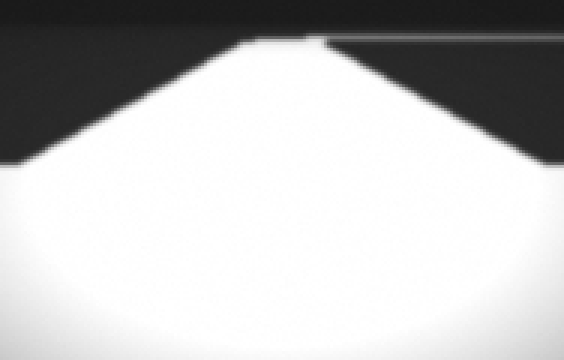
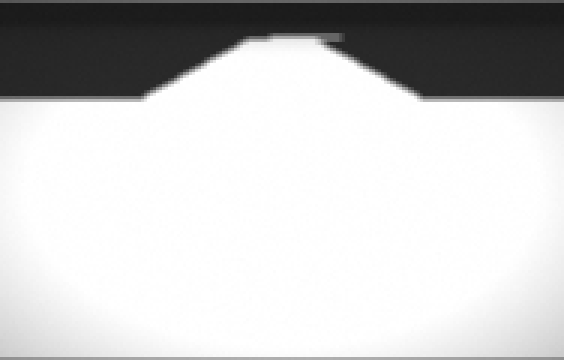
仿真提速：相机射线预计算+盒式模糊(3.4->1.5ms)、headless 7.5x、界面加速 x1/x2/x4/x8 + 平滑开关 + --speed；新增 tools/sim_opt.py（20 组传动比各自寻优）

diff --git a/sim/camera.py b/sim/camera.py
@@ -7,12 +7,14 @@
 
 成像链（尽量贴近实拍）：
   反射率 albedo(白 0.85 / 黑 0.06) → 光照衰减 → 自动曝光(AEC，把亮的顶到 255) →
-  镜头暗角 → 模糊(1px) → 噪声 → uint8
+  镜头暗角 → 模糊 → 噪声 → uint8
 选自动曝光是因为实车那颗 MT9V034 的 AEC 只能开、不能关（我们踩过坑），
 所以画面亮度总是"白的地方刚好饱和"，固件里默认阈值 255 就是靠这个工作。
+
+★ 加速（FW 仿真专用）：射线方向在**相机坐标系**里只算一次，每帧只做一次 3×3 旋转；
+  模糊改成 numpy 的 3 抽头盒式滤波；`fast=True` 时不清噪（优化/批量跑用）。
 """
 import numpy as np
-from PIL import Image, ImageFilter
 
 from track import Track
 
@@ -25,101 +27,113 @@ CAM_HFOV  = np.deg2rad(60.0)   # 水平视场
 
 
 def _basis(yaw):
-    """相机朝向：世界 z 向上，yaw=0 朝 +x。
-       返回 前/右/上 三个基向量（前方向带低头角）"""
-    fwd = np.array([np.cos(yaw) * np.cos(CAM_PITCH),
-                    np.sin(yaw) * np.cos(CAM_PITCH),
-                    -np.sin(CAM_PITCH)])
-    right = np.array([-np.sin(yaw), np.cos(yaw), 0.0])
-    up = np.cross(fwd, right)          # 顺序很重要：right×fwd 得到的是朝下
+    """相机朝向：世界 z 向上，yaw=0 朝 +x。返回 前/右/上 三个基向量（前方向带低头角）"""
+    cp, sp = np.cos(CAM_PITCH), np.sin(CAM_PITCH)
+    cy, sy = np.cos(yaw), np.sin(yaw)
+    fwd = np.array([cy * cp, sy * cp, -sp])
+    right = np.array([-sy, cy, 0.0])
+    up = np.cross(fwd, right)
     return fwd, right, up
 
 
-def _rays(yaw):
-    """每个像素的方向向量 (H, W, 3)，已归一化"""
+def _rays_cam(w=W, h=H):
+    """相机坐标系下的单位射线 (h,w,3)：x 右 / y 上 / z 前"""
     tx = np.tan(CAM_HFOV * 0.5)
-    ty = tx * (float(H) / float(W))          # 方形像素
-    u = (np.arange(W) + 0.5) / W * 2.0 - 1.0
-    v = 1.0 - (np.arange(H) + 0.5) / H * 2.0
-    U, V = np.meshgrid(u, v)                 # (H, W)
-    fwd, right, up = _basis(yaw)
-    d = (fwd[None, None, :]
-         + (U * tx)[:, :, None] * right[None, None, :]
-         + (V * ty)[:, :, None] * up[None, None, :])
+    ty = tx * (float(h) / float(w))
+    u = (np.arange(w) + 0.5) / w * 2.0 - 1.0
+    v = 1.0 - (np.arange(h) + 0.5) / h * 2.0
+    U, V = np.meshgrid(u, v)
+    d = np.stack([U * tx, V * ty, np.ones_like(U)], axis=2).astype(np.float32)
     d /= np.linalg.norm(d, axis=2, keepdims=True)
     return d
 
 
 class Camera(object):
     def __init__(self, track: Track, size=(W, H), seed=12345, noise=0.6,
-                 vignette=0.35, blur=1, saturate=True):
+                 vignette=0.35, blur=1, saturate=True, fast=False):
         self.track = track
         self.size = size
         self.rng = np.random.default_rng(seed)
-        self.noise = noise
-        self.vignette = vignette
-        self.blur = blur
+        self.noise = 0.0 if fast else noise
+        self.blur = 0 if fast else blur
         self.saturate = saturate
+        self.fast = fast
+        self._d_cam = _rays_cam(size[0], size[1])
 
         # 暗角模板（一次算好）
         u = (np.arange(size[0]) + 0.5) / size[0] * 2.0 - 1.0
         v = (np.arange(size[1]) + 0.5) / size[1] * 2.0 - 1.0
         U, V = np.meshgrid(u, v)
-        self.vig = 1.0 - vignette * (U * U + V * V) * 0.5
+        self.vig = (1.0 - vignette * (U * U + V * V) * 0.5).astype(np.float32)
+
+    def _box3(self, a):
+        """3 抽头盒式模糊（横+竖各一次），比 PIL 高斯快一个数量级"""
+        a = (a + np.roll(a, 1, axis=1) + np.roll(a, -1, axis=1)) * (1.0 / 3.0)
+        a = (a + np.roll(a, 1, axis=0) + np.roll(a, -1, axis=0)) * (1.0 / 3.0)
+        return a
 
     def render(self, x, y, yaw):
         """返回 (H,W) uint8：白=255，黑≈20~60"""
-        d = _rays(yaw)                                   # (H,W,3)
+        fwd, right, up = _basis(yaw)
+        R = np.stack([right, up, fwd], axis=1).astype(np.float32)     # 列向量
+        d = self._d_cam @ R.T                                         # (H,W,3) 世界系
+
         ox = x + CAM_FWD * np.cos(yaw)
         oy = y + CAM_FWD * np.sin(yaw)
         oz = CAM_H
 
         dz = d[:, :, 2]
         with np.errstate(divide='ignore', invalid='ignore'):
-            t = np.where(dz < -1e-6, -oz / dz, np.inf)   # 打到地面 z=0
+            t = np.where(dz < -1e-6, -oz / dz, np.inf)
+        hit = np.isfinite(t)
         px = ox + d[:, :, 0] * t
         py = oy + d[:, :, 1] * t
-        hit = np.isfinite(t)
 
-        alb = np.full(d.shape[:2], 0.06)
-        alb[hit] = np.where(self.track.is_white(px[hit], py[hit]), 0.85, 0.06)
+        alb = np.full(d.shape[:2], 0.06, dtype=np.float32)
+        hx, hy = px[hit], py[hit]
+        alb[hit] = np.where(self.track.is_white(hx, hy), 0.85, 0.06)
 
-        # 远处稍微暗一点（真实镜头的衰减/地面漫反射）
         dist = np.where(hit, t, 50.0)
         att = 1.0 / (1.0 + 0.035 * dist ** 1.2)
         rad = alb * att * self.vig
 
-        # 自动曝光（AEC）：把最亮的（白路面）拉到接近饱和
         p = np.percentile(rad, 97.0)
         if p > 1e-6:
-            gain = 1.05 / p                    # 略微过曝 ⇒ 白路面饱和到 255（和实拍一致）
-            rad = rad * gain
-        img = np.clip(rad * 255.0, 0, 255)
-
+            rad = rad * (1.05 / p)
+        img = rad * 255.0
         if self.saturate:
-            img = np.clip(img + 25.0, 0, 255)      # 白路面顶到 255（和实拍一样过曝一点点）
+            img = img + 25.0
+        np.clip(img, 0, 255, out=img)
 
-        out = Image.fromarray(img.astype(np.uint8), mode='L')
         if self.blur:
-            out = out.filter(ImageFilter.GaussianBlur(self.blur))
-        a = np.asarray(out, dtype=np.float32)
-        a += self.rng.normal(0.0, self.noise, a.shape)
-        return np.clip(a, 0, 255).astype(np.uint8)
+            img = self._box3(img)
+        if self.noise > 0.0:
+            img += self.rng.normal(0.0, self.noise, img.shape)
+            np.clip(img, 0, 255, out=img)
+        return img.astype(np.uint8)
 
 
 if __name__ == '__main__':
     import os
+    import time
+    from PIL import Image
+
     tr = Track()
     cam = Camera(tr)
-    poses = [
-        ('start',    *tr.start_pose()),
-        ('cross',    2.2, 0.0, 0.0),
-        ('ring_in',  2.2, 6.0, 0.0),
-        ('ring_on',  3.2, 7.15, np.pi / 2),
-        ('turn',     6.2, 0.4, np.deg2rad(40)),
-    ]
+    camf = Camera(tr, fast=True)
+    poses = [('start', *tr.start_pose()), ('cross', 2.2, 0.0, 0.0),
+             ('ring', 2.2, 6.0, 0.0), ('turn', 6.2, 0.4, np.deg2rad(40))]
     os.makedirs('out', exist_ok=True)
     for name, x, y, yaw in poses:
         img = cam.render(x, y, yaw)
         Image.fromarray(img).resize((W * 3, H * 3), Image.NEAREST).save('out/cam_%s.png' % name)
         print('%-8s mean=%5.1f  sat=%4.1f%%' % (name, img.mean(), 100.0 * (img >= 250).mean()))
+
+    t0 = time.perf_counter()
+    for _ in range(200):
+        camf.render(1.0, 0.0, 0.0)
+    print('fast 相机 %.2f ms/帧' % ((time.perf_counter() - t0) / 200 * 1000))
+    t0 = time.perf_counter()
+    for _ in range(200):
+        cam.render(1.0, 0.0, 0.0)
+    print('标准 相机 %.2f ms/帧' % ((time.perf_counter() - t0) / 200 * 1000))

diff --git a/tools/sim_opt.py b/tools/sim_opt.py
@@ -1,0 +1,115 @@
+# -*- coding: utf-8 -*-
+"""20 组传动比，每组自动找最好的参数（自己在后台跑，出表）
+
+    python tools\\sim_opt.py            # 默认 45 秒/次、20 组
+    python tools\\sim_opt.py 60 20      # 秒数 + 组数
+
+对每个传动比 g：
+  ① 先在 w_cur（弯道权重）里找最好的（0.35 / 0.45 / 0.55）
+  ② 再用最好的 w_cur 找前馈 kff（100 / 200 / 300）
+  ③ 报告：圈数、出界、弯道偏差 RMS、直道偏差 RMS、以及"这组车能跑多好"
+
+为什么每组都要单独优化：传动比越小，前轮转得越少 ⇒ 同样的视觉偏差打不出足够的舵角，
+必须把弯道权重/前馈调大；传动比大的车反过来需要压小，否则会过冲/画龙。
+"""
+import math
+import os
+import sys
+
+sys.path.insert(0, os.path.join(os.path.dirname(os.path.abspath(__file__)), '..', 'sim'))
+
+import numpy as np
+from sim import Sim
+import control as C
+
+DT = 0.005
+GZ_CURVE = 8.0
+
+
+def signed_dev(track, x, y, seg):
+    ax, ay, bx, by = seg[:, 0], seg[:, 1], seg[:, 2], seg[:, 3]
+    vx, vy = bx - ax, by - ay
+    L2 = np.maximum(vx * vx + vy * vy, 1e-12)
+    t = np.clip(((x - ax) * vx + (y - ay) * vy) / L2, 0.0, 1.0)
+    px, py = ax + t * vx, ay + t * vy
+    d = np.hypot(x - px, y - py)
+    k = int(np.argmin(d))
+    cross = vx[k] * (y - py[k]) - vy[k] * (x - px[k])
+    return (1.0 if cross >= 0 else -1.0) * float(d[k])
+
+
+def evaluate(secs, gain, w_cur, kff, controller='gyro', seed=1):
+    C.STEER_W_CUR = w_cur
+    sim = Sim(params={'kff': kff}, controller=controller, servo_gain=gain,
+              seed=seed, fast=True)
+    sim.start()
+    seg = np.asarray(sim.track.segs, dtype=np.float64)
+
+    laps = 0
+    prev_x = sim.x
+    off_ms = 0.0
+    cor, strt = [], []
+    for i in range(int(secs / DT)):
+        sim.step(DT)
+        if i % 4 == 0:
+            if prev_x < 0.5 <= sim.x and abs(sim.y) < 0.6:
+                laps += 1
+            prev_x = sim.x
+            if not sim.on_track:
+                off_ms += 20.0
+            d = signed_dev(sim.track, sim.x, sim.y, seg)
+            if abs(sim.imu.gz) > GZ_CURVE and sim.rpm > 30:
+                cor.append(d)
+            else:
+                strt.append(d)
+
+    def rms(a):
+        return 0.0 if not a else float(np.sqrt(np.mean(np.square(a))))
+
+    laps = max(0, laps - 1)
+    score = laps * 60.0 - (off_ms / 1000.0) * 25.0 - rms(cor) * 120.0
+    return dict(laps=laps, off=off_ms / 1000.0, cor=rms(cor), strt=rms(strt),
+                score=score, w=w_cur, kff=kff)
+
+
+def main():
+    secs = float(sys.argv[1]) if len(sys.argv) > 1 else 45.0
+    n_gain = int(sys.argv[2]) if len(sys.argv) > 2 else 20
+
+    gains = [round(0.30 + 0.04 * k, 2) for k in range(n_gain)]
+    print('每组 %.0f 秒；传动比 %s' % (secs, gains))
+    print('=' * 122)
+    best_rows = []
+    for g in gains:
+        # ① 找弯道权重
+        cands = [0.35, 0.45, 0.55] if g < 0.7 else [0.30, 0.40, 0.50]
+        runs = [(evaluate(secs, g, w, 200.0), w, 200.0) for w in cands]
+        runs.sort(key=lambda r: -r[0]['score'])
+        r1, w1, _ = runs[0]
+        # ② 在这组 w 上找前馈
+        runs2 = [(evaluate(secs, g, w1, ff), w1, ff) for ff in (100.0, 300.0)]
+        runs2.sort(key=lambda r: -r[0]['score'])
+        r2, w2, ff2 = runs2[0]
+        best = r2 if r2['score'] > r1['score'] else r1
+        best['gain'] = g
+        best_rows.append(best)
+        print('gain=%.2f | 圈 %d 出界 %5.2fs 弯道RMS %.3f m 直道RMS %.3f m | '
+              '最好 w=%.2f kff=%.0f | 分 %6.1f'
+              % (g, best['laps'], best['off'], best['cor'], best['strt'],
+                 best['w'], best['kff'], best['score']), flush=True)
+
+    print('=' * 122)
+    ok = [r for r in best_rows if r['off'] < 1.0]
+    if ok:
+        good = [r['gain'] for r in ok]
+        print('能稳定跑（出界<1s）的传动比区间：%.2f ~ %.2f，共 %d 组' % (min(good), max(good), len(good)))
+        bestc = min(ok, key=lambda r: r['cor'])
+        print('弯道最贴中线：gain=%.2f  w=%.2f kff=%.0f  弯道RMS=%.3f m'
+              % (bestc['gain'], bestc['w'], bestc['kff'], bestc['cor']))
+    bad = [r['gain'] for r in best_rows if r['off'] >= 1.0]
+    if bad:
+        print('跑不动的传动比：%s' % bad)
+
+
+if __name__ == '__main__':
+    main()

diff --git a/sim/main.py b/sim/main.py
@@ -58,8 +58,12 @@ class App(object):
         self.b_stop = self._btn(btns, '停止', self.do_stop, C_OFF, 0, 1)
         self.b_reset = self._btn(btns, '复位', self.do_reset, C_BTN, 1, 0)
         self.b_trail = self._btn(btns, '清轨迹', self.do_clear, C_BTN, 1, 1)
-        for b in (self.b_run, self.b_stop, self.b_reset, self.b_trail):
+        self.b_speed = self._btn(btns, '加速 ×1', self.do_speed, C_BTN, 2, 0)
+        self.b_smooth = self._btn(btns, '平滑：开', self.do_smooth, C_BTN, 2, 1)
+        for b in (self.b_run, self.b_stop, self.b_reset, self.b_trail,
+                  self.b_speed, self.b_smooth):
             b.configure(width=16)
+        self.speed_x = 1.0
 
         tk.Label(right, text='调参可走 TCP（端口 %d），用 tools/car_ui.py 连' % port,
                  fg='#7d8797', bg=BG).pack(pady=4)
@@ -167,6 +171,21 @@ class App(object):
     def do_clear(self):
         self.trail = []
 
+    def do_speed(self):
+        """★ 加速：×1 → ×2 → ×4 → ×8 → ×1（仿真时间跑得比实际快）"""
+        self.speed_x = {1.0: 2.0, 2.0: 4.0, 4.0: 8.0, 8.0: 1.0}[self.speed_x]
+        self.b_speed.configure(text='加速 ×%d' % int(self.speed_x),
+                               bg=C_ON if self.speed_x > 1 else C_BTN)
+
+    def do_smooth(self):
+        """★ 关掉图像的模糊/噪声（纯几何）—— 跑批/对比时更快、更纯净"""
+        cam = self.sim.cam
+        cam.fast = not cam.fast
+        cam.noise = 0.0 if cam.fast else 0.6
+        cam.blur = 0 if cam.fast else 1
+        self.b_smooth.configure(text='平滑：%s' % ('关' if cam.fast else '开'),
+                                bg=C_OFF if cam.fast else C_BTN)
+
     # ---------------- 主循环 ----------------
     def tick(self):
         sim = self.sim
@@ -175,9 +194,11 @@ class App(object):
         if not hasattr(self, 't_last'):
             self.t_last = now
             self.acc = 0.0
-        self.acc += min(now - self.t_last, 0.1)
+        self.acc += min(now - self.t_last, 0.1) * self.speed_x
         self.t_last = now
-        while self.acc >= 0.02:
+        _n = 0
+        while self.acc >= 0.02 and _n < 30:      # 一拍最多补 30 个控制周期（0.6s），别把界面卡死
+            _n += 1
             self.acc -= 0.02
             for _ in range(4):           # 4×5ms = 20ms 一拍（控制链内部对齐 20ms）
                 sim.step(0.005)
@@ -222,6 +243,10 @@ def main():
     args = [a for a in sys.argv[1:] if not a.startswith('--')]
     port = int(args[0]) if args else 8086
     auto = '--auto' in sys.argv          # 直接开跑（不用点按钮，方便看/截图）
+    sp = 1.0
+    for i, a in enumerate(sys.argv):
+        if a == '--speed' and i + 1 < len(sys.argv):
+            sp = float(sys.argv[i + 1])
     root = tk.Tk()
     app = App(root, port)
     try:
@@ -231,6 +256,9 @@ def main():
         print('[sim] TCP 客户端启动（上位机 car_ui.py 在 %d 上监听时自动连上）' % port)
     except Exception as e:
         print('[sim] TCP 未启动：%s' % e)
+    if sp != 1.0:
+        app.speed_x = sp
+        app.b_speed.configure(text='加速 ×%d' % int(sp), bg=C_ON)
     if auto:
         app.do_run()                     # 直接开跑
     root.mainloop()

diff --git a/sim/sim.py b/sim/sim.py
@@ -37,9 +37,11 @@ DEFAULT_PARAMS = {
 
 class Sim(object):
     def __init__(self, params=None, seed=1, noise=True, controller='gyro',
-                 servo_gain=None, imu_bias=0.8):
+                 servo_gain=None, imu_bias=0.8, fast=False):
         self.track = Track()
-        self.cam = Camera(self.track, seed=seed, noise=0.6 if noise else 0.0)
+        self.fast = fast
+        self.cam = Camera(self.track, seed=seed,
+                          noise=0.0 if (fast or not noise) else 0.6, fast=fast)
         self.scan = C.Scan()
         self.state = C.State()
         self.steer = C.Steer() if controller == 'vision' else C.SteerGyro()
